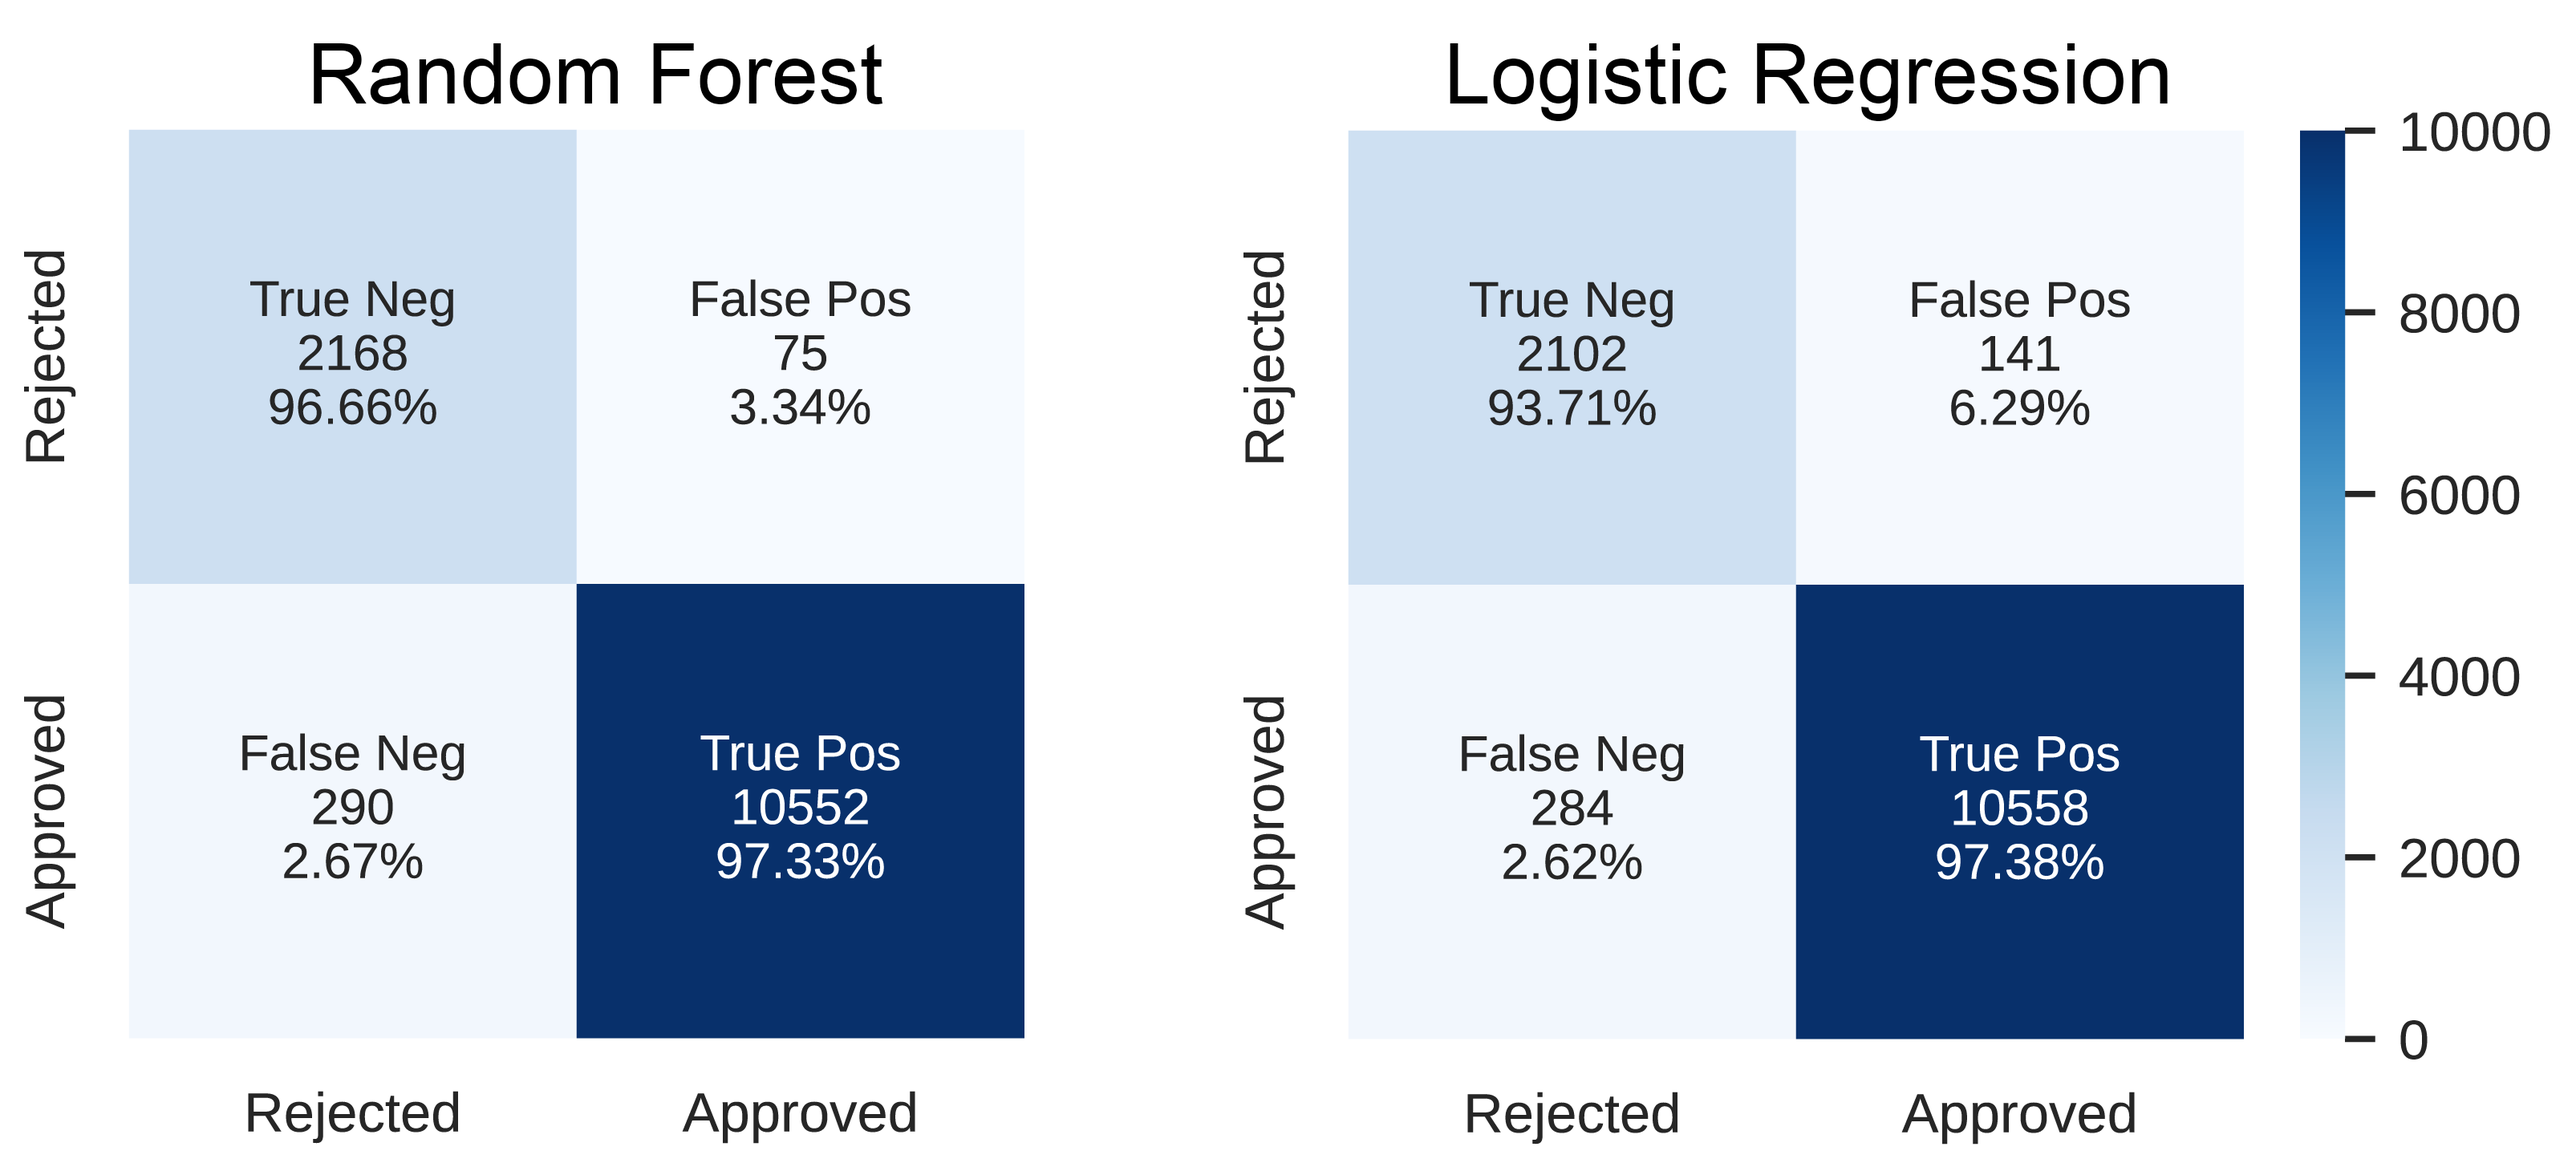
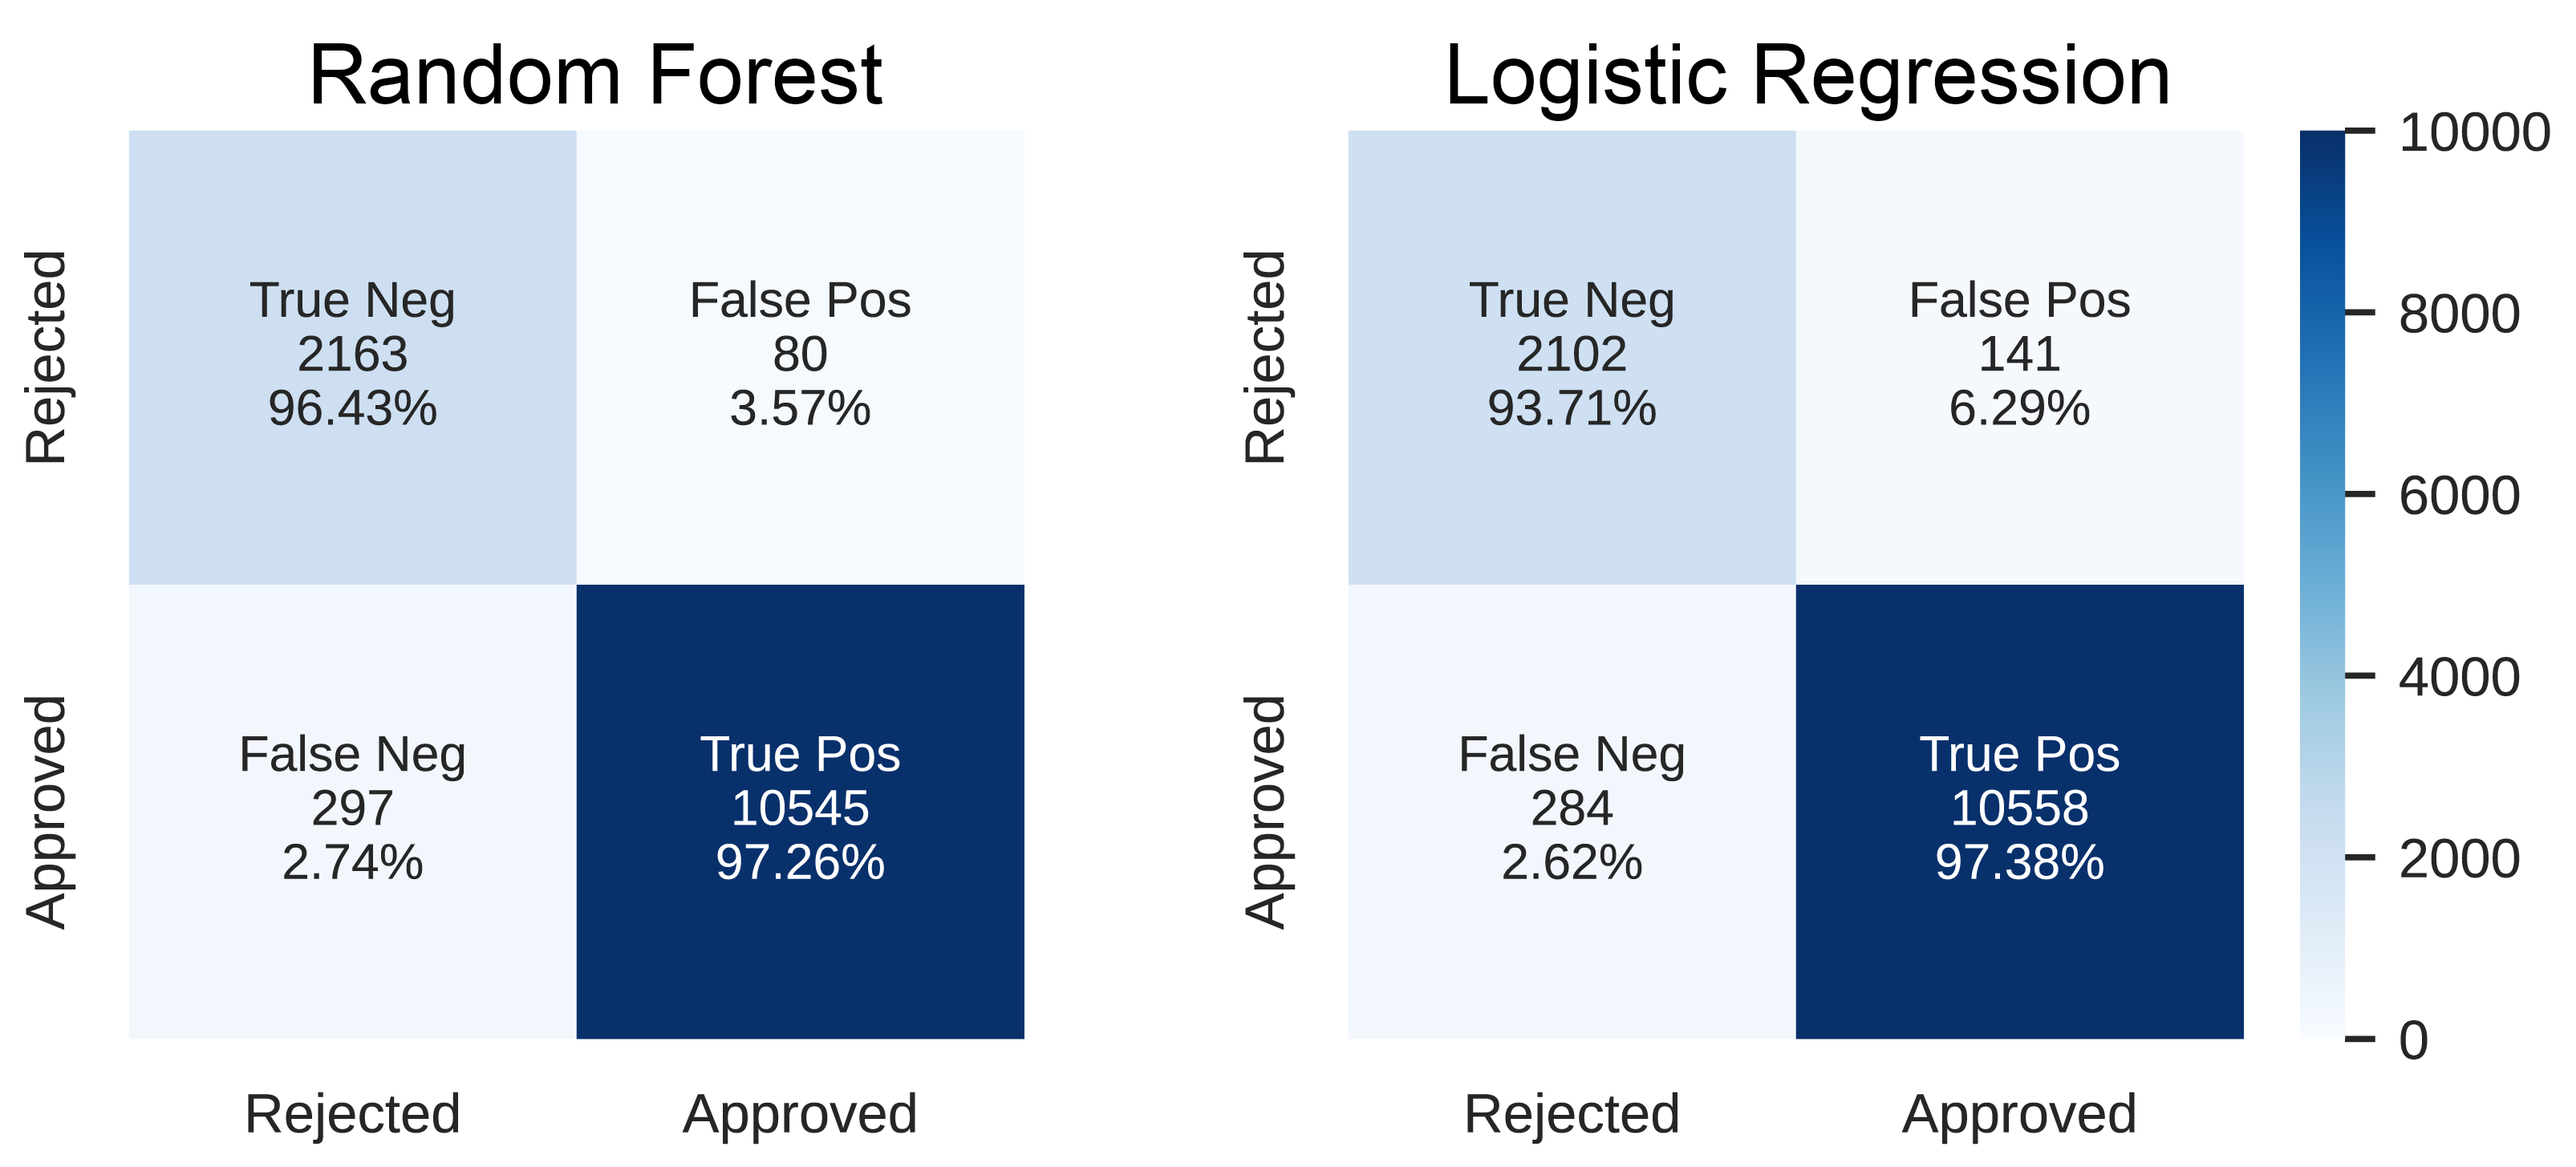
upadte figures and readme

diff --git a/README.md b/README.md
@@ -36,7 +36,11 @@ The Figure below shows a summary of the raw data during data query.
 
 #### **Model-based feature selection**
 
-It is desirable to reduce the number of features to both reduce the computational cost of modeling and, in some cases, to improve the performance of the model. To this end, the entire the dataset was split into a training and a testing datasets. Using the training dataset, a random forest model was trained and cross-validated (5-fold) to maximize ROC-AUC. Permutation importance was calculated to rank the features, because the impurity-based feature importance reported from the random forest model itself could be misleading for high cardinality features (many unique values) )(Ref: [sklearn doc](https://scikit-learn.org/stable/auto_examples/inspection/plot_permutation_importance.html#sphx-glr-auto-examples-inspection-plot-permutation-importance-py)).  If the permutation importance of a feature is larger than  the 75th percentile of all the feature importance values, this feature was selected as an important feature.
+It is desirable to reduce the number of features to both reduce the computational cost of modeling and, in some cases, to improve the performance of the model. To this end, the entire the dataset was split into a training and a testing datasets. Using the training dataset, a random forest model was trained and cross-validated (5-fold) to maximize ROC-AUC. During the cross-validation, 
+
+
+
+Permutation importance was calculated to rank the features, because the impurity-based feature importance reported from the random forest model itself could be misleading for high cardinality features (many unique values) )(Ref: [sklearn doc](https://scikit-learn.org/stable/auto_examples/inspection/plot_permutation_importance.html#sphx-glr-auto-examples-inspection-plot-permutation-importance-py)).  If the permutation importance of a feature is larger than  the 75th percentile of all the feature importance values, this feature was selected as an important feature.
 
 #### **Classification modeling**
 
@@ -48,19 +52,13 @@ Because the features selected based on permutation importance do not inform how 
 
 ### **Results and Discussion**
 
-
-
-
-
-
-
-
-
-
+The top seven most import features were identified using the threshold of 75th percentile permutation importance value. The selected features were HOEPA status, occupancy type, debt-to-income ratio ,open-end line of credit, business or commercial purpose, derived load product type and lien status (Figure below). 
 
 <img src="https://github.com/weizhao-BME/metis-project3/blob/main/figures/feature_selection.png" alt="Figure 3" width="600"/>
 
 
+
+Using the selected features and all  
 
 <img src="https://github.com/weizhao-BME/metis-project3/blob/main/figures/confusion_matrices.png" alt="Figure 4" width="600"/>
 
